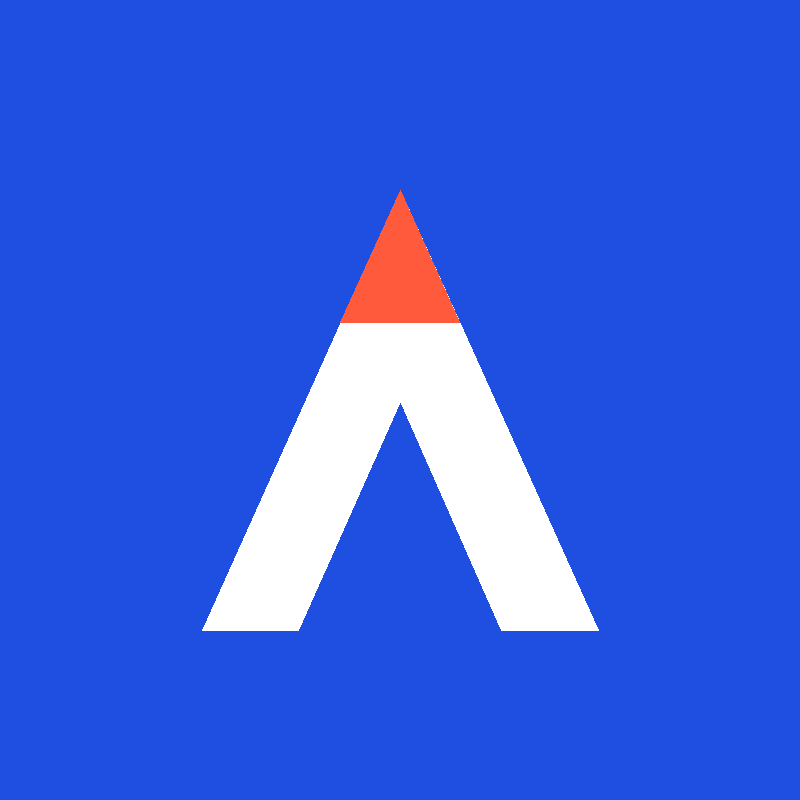
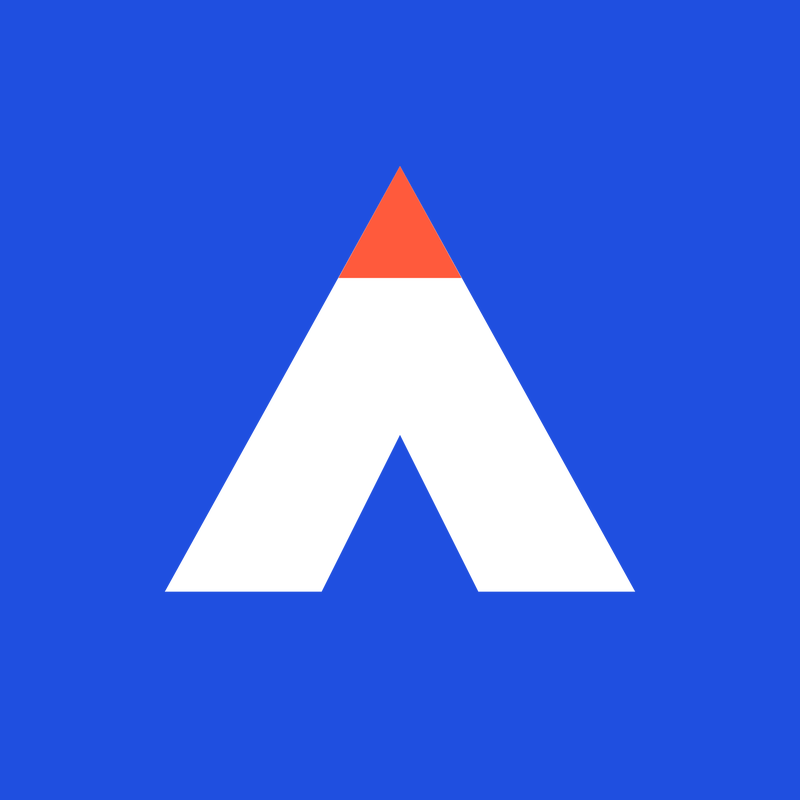
Real brand mark in video and channel art

diff --git a/index.html b/index.html
@@ -134,7 +134,7 @@
   <div class="stage" id="stage">
     <div id="art"></div>
     <div class="bar"><i id="bar"></i></div>
-    <div class="brandtag"><!-- swap for /brand/assets/lair-mark-color.svg --><svg viewBox="0 0 24 24" aria-hidden="true"><path d="M3 22 L12 2 L21 22 L16.6 22 L12 11.6 L7.4 22 Z" fill="#1F4FE0"/><path d="M9.3 8 L12 2 L14.7 8 Z" fill="#FF5A3C"/></svg>Local AI Registry</div>
+    <div class="brandtag"><svg viewBox="0 0 100 100" aria-hidden="true"><path d="M50 10 L92 86 L64 86 L50 58 L36 86 L8 86 Z" fill="#1F4FE0"/><path d="M50 10 L61 30 L39 30 Z" fill="#FF5A3C"/></svg>Local AI Registry</div>
     <div class="end" id="end" hidden>
       <a class="btn cta" href="https://localairegistry.com" target="_blank" rel="noopener">Claim your record free</a>
       <button class="btn" id="replay">Replay</button>
@@ -371,7 +371,7 @@
       later(400, function () {
         if (mb) mb.style.background = 'rgb(220,0,0)';
         art.innerHTML = '<svg viewBox="' + VB + '">' + BG +
-          '<g transform="translate(252 160) scale(4)"><g class="t pop"><path d="M3 22 L12 2 L21 22 L16.6 22 L12 11.6 L7.4 22 Z" fill="' + BRAND + '"/><path class="t pop" style="--d:.45s" d="M9.3 8 L12 2 L14.7 8 Z" fill="' + CORAL + '"/></g></g>' +
+          '<g transform="translate(240 130) scale(1.2)"><g class="t pop"><path d="M50 10 L92 86 L64 86 L50 58 L36 86 L8 86 Z" fill="' + BRAND + '"/><path class="t pop" style="--d:.45s" d="M50 10 L61 30 L39 30 Z" fill="' + CORAL + '"/></g></g>' +
           '<text class="ser title" style="animation-delay:.3s" x="300" y="352" text-anchor="middle" font-size="44" fill="' + INK + '">Be the name AI says.</text>' +
           '<text class="sub" style="animation-delay:.9s" x="300" y="402" text-anchor="middle" font-size="22" fill="' + BRAND + '" letter-spacing=".06em">localairegistry.com</text>' +
           '<text class="txt sub" style="animation-delay:1.3s" x="300" y="440" text-anchor="middle" font-size="18" fill="' + MUTED + '">Claim your record free.</text></svg>';
